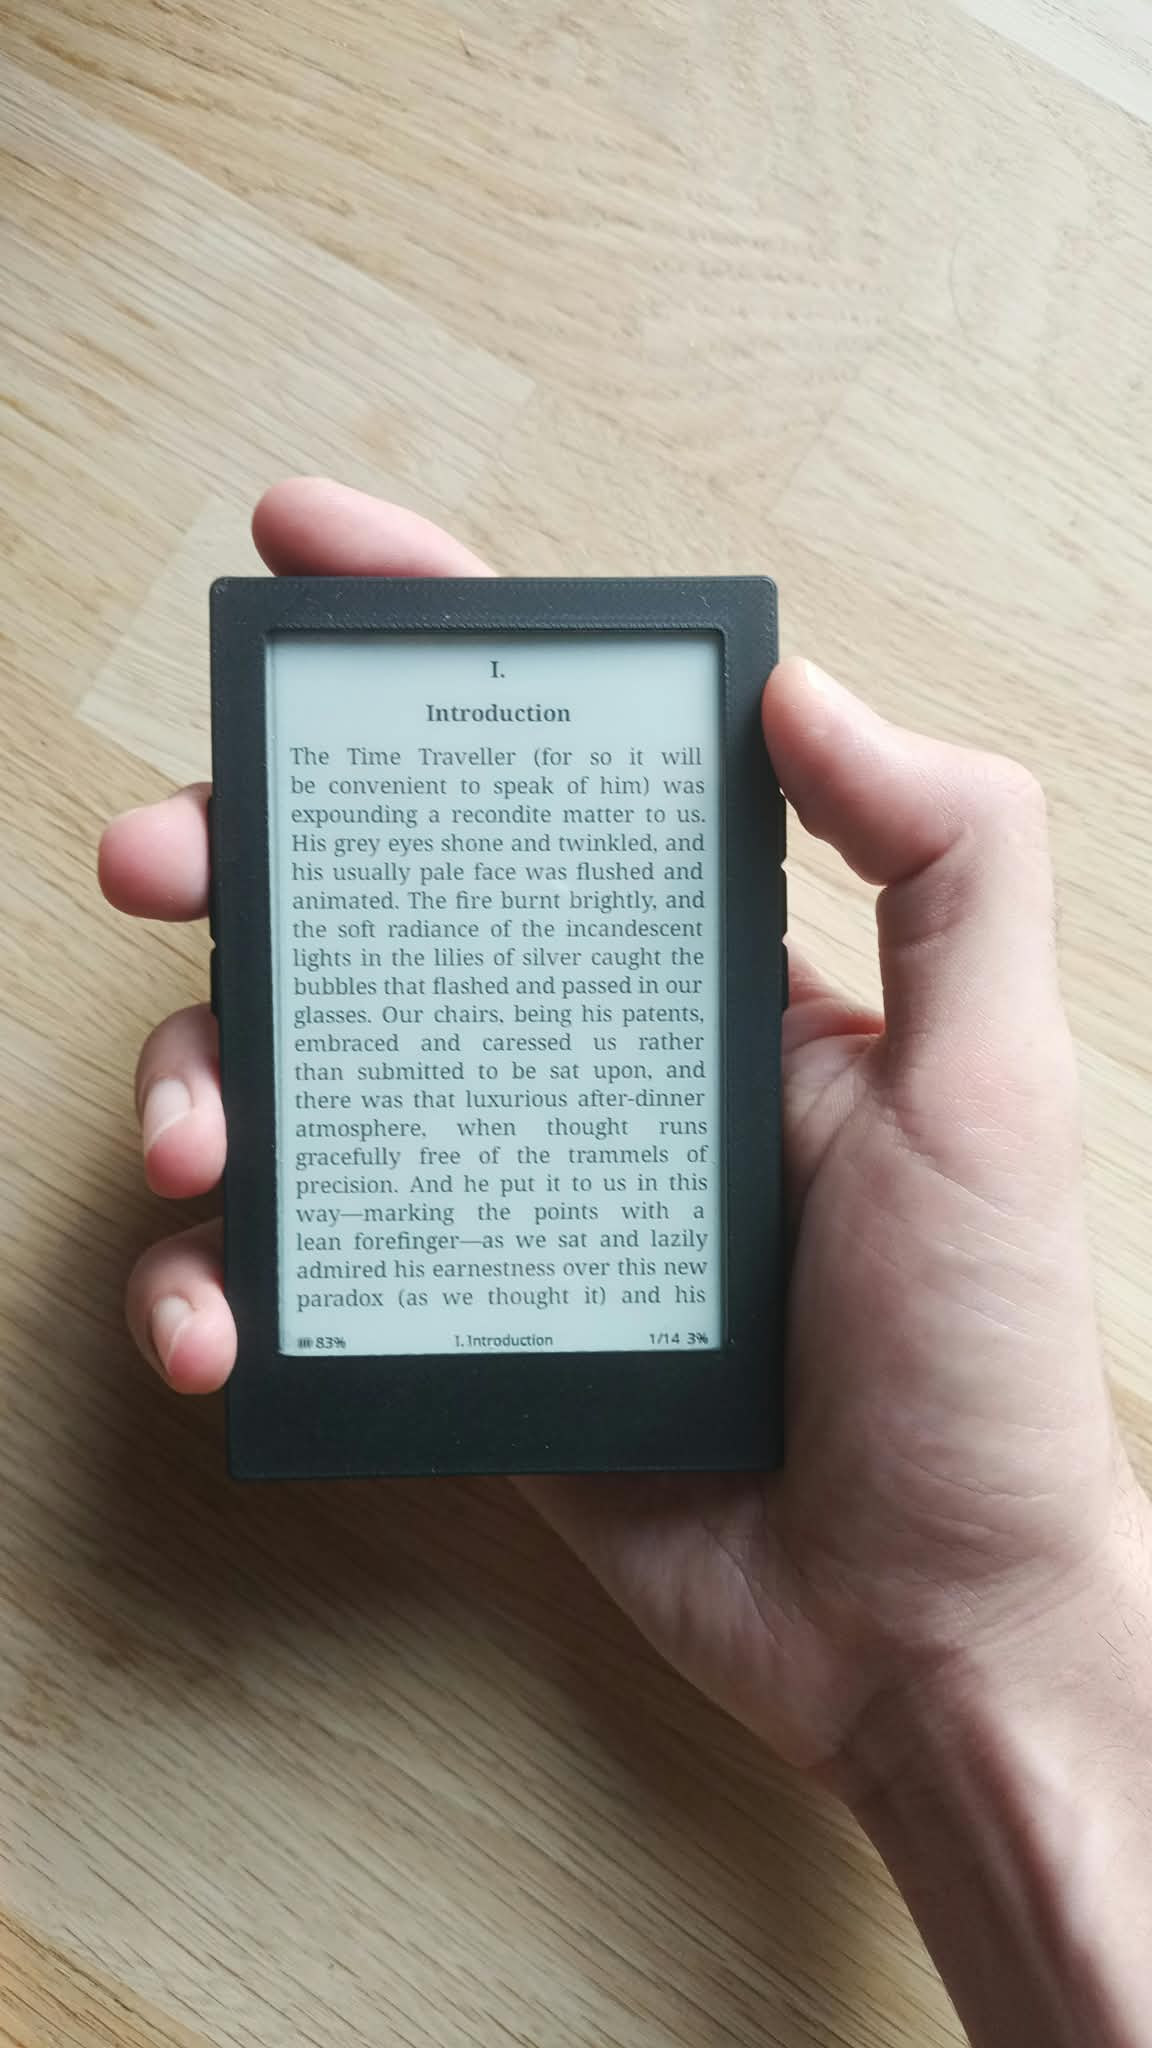
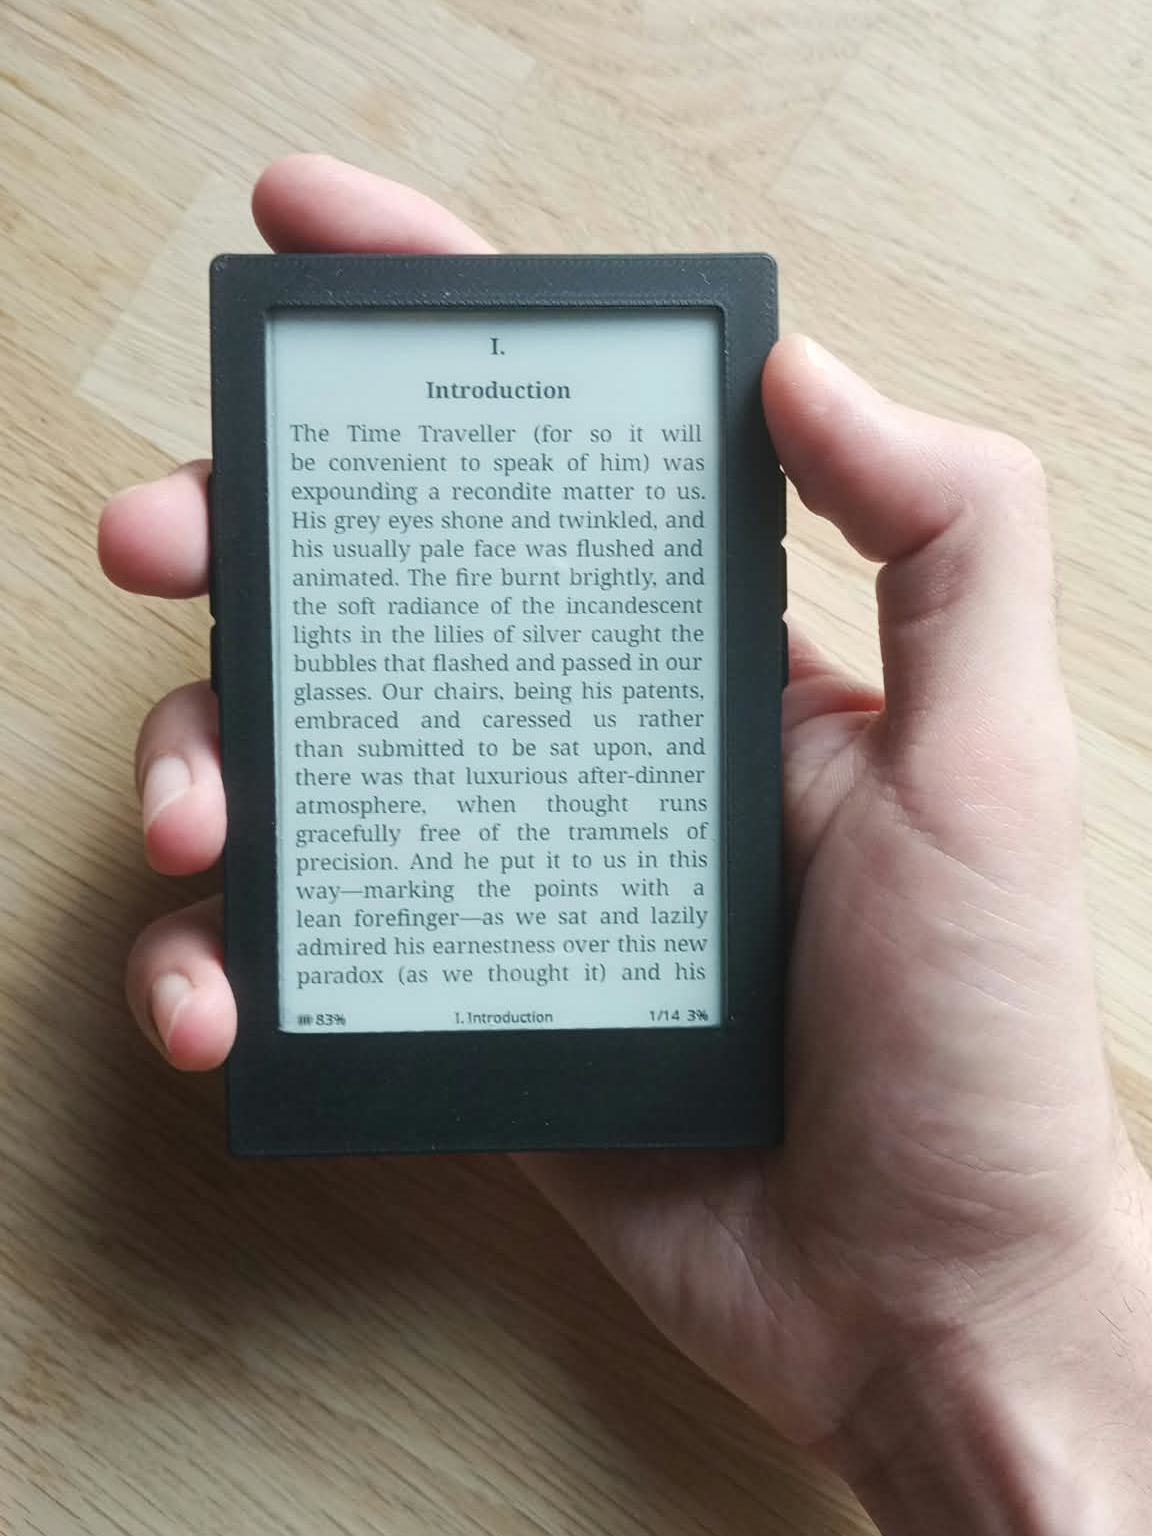
Update readme and crop images

diff --git a/README.md b/README.md
@@ -24,6 +24,14 @@ The rest of the board includes:
 - a LIS3DHTR three-axis accelerometer on the I²C bus;
 - a switched supply for peripherals that do not need to remain powered.
 
+## PCB
+
+The schematic and PCB were designed in KiCad.
+
+| Front | Back |
+|---|---|
+| <a href="images/pcb-front.png"><img src="images/pcb-front.png" width="430" alt="PCB render of the display side"></a> | <a href="images/pcb-back.png"><img src="images/pcb-back.png" width="430" alt="PCB render of the component side"></a> |
+
 ## Schematic
 
 <p align="center">
@@ -31,15 +39,3 @@ The rest of the board includes:
     <img src="images/schematic.svg" width="1000" alt="Complete KiCad schematic">
   </a>
 </p>
-
-## PCB
-
-| Front | Back |
-|---|---|
-| <a href="images/pcb-front.png"><img src="images/pcb-front.png" width="430" alt="PCB render of the display side"></a> | <a href="images/pcb-back.png"><img src="images/pcb-back.png" width="430" alt="PCB render of the component side"></a> |
-
-## V1 mistakes
-
-- The power button is connected to a GPIO that cannot wake the ESP32-C6 from deep sleep. The side buttons are used for wake-up instead.
-- The e-paper FPC connector is slightly offset and should be moved in another revision.
-- The dashed display placement marking follows the active screen area instead of the panel's outer outline.
